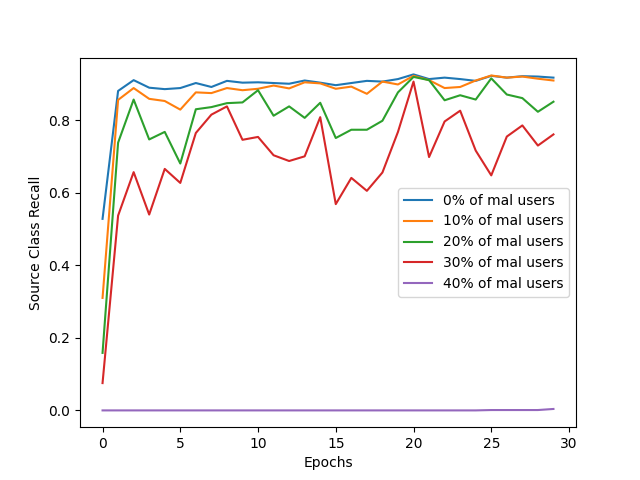
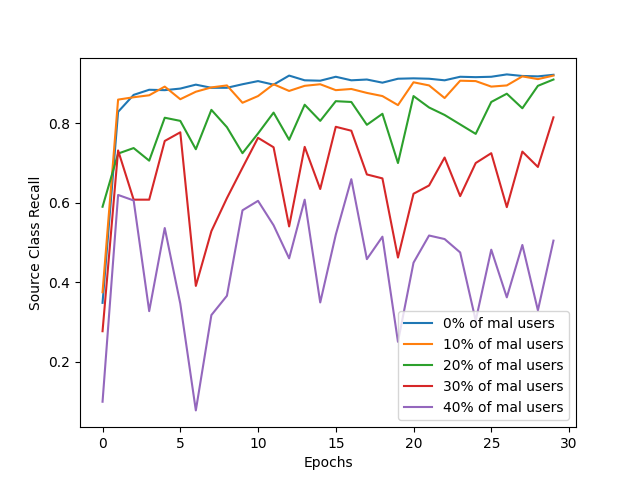
largest diff plots

diff --git a/pytorch_fed/src/federated_main.py b/pytorch_fed/src/federated_main.py
@@ -73,10 +73,10 @@ if __name__ == '__main__':
     # torch.save({
     #     'model': global_model,
     # }, 'mnist.pth')
-    attack = [1]
+    attack = [0, 1]
     recalls = []
     recalls_fake = [0.8306922468393596, 0.8207912665433005, 0.7306923458491625, 0.6376231310662068]
-
+    recalls_true = [0.88, 0.87, 0.85, 0.78, 0.64]
 
     mal = [0, 10, 20, 30, 40]
     
@@ -130,7 +130,7 @@ if __name__ == '__main__':
                     
                     info = (local_losses_fake, local_weights_fake, selected_users)
                     
-                    selected_users, attackers_found = eliminate_fixed_percentage(info, n_train_clients, 0.7)
+                    selected_users, attackers_found = eliminate_largest_diff(info, n_train_clients)
                                 
                     count = sum(1 for item in attackers_found if item in attackers and item in selected_users)
                     if mal_usr_percentage > 0:
@@ -214,16 +214,16 @@ if __name__ == '__main__':
     matplotlib.use('Agg')
 
 
-    # epochs = [x for x in range(0, n_train_epochs)]
-    # for cnt, model_rec in enumerate(test_recall_total):
+    epochs = [x for x in range(0, n_train_epochs)]
+    for cnt, model_rec in enumerate(test_recall_total):
 
-    #     plt.plot(epochs, model_rec, label = str(mal[cnt]) + "% of mal users")
+        plt.plot(epochs, model_rec, label = str(mal[cnt]) + "% of mal users")
 
 
-    # plt.xlabel("Epochs")
-    # plt.ylabel("Source Class Recall")
-    # plt.legend()
-    # plt.savefig('save/rec_many_fix_percentage.png')
+    plt.xlabel("Epochs")
+    plt.ylabel("Source Class Recall")
+    plt.legend()
+    plt.savefig('save/rec_many_largest_diff.png')
 
 
 
@@ -237,7 +237,7 @@ if __name__ == '__main__':
     plt.xlabel("Epochs")
     plt.ylabel("CrossEntropy Loss")
     plt.legend()
-    plt.savefig('save/loss_many_fix_percentage.png')
+    plt.savefig('save/loss_many_largest_diff.png')
 
 
     plt.figure()
@@ -250,7 +250,7 @@ if __name__ == '__main__':
     plt.xlabel("Epochs")
     plt.ylabel("Sparse Categorical Accuracy")
     plt.legend()
-    plt.savefig('save/accs_many_fix_percentage.png')
+    plt.savefig('save/accs_many_largest_diff.png')
 
     
     
@@ -260,34 +260,34 @@ if __name__ == '__main__':
     plt.xlabel("Malicious users %")
     plt.ylabel("Percentage of attackers detected")
     plt.legend()
-    plt.savefig('save/attackers_fix_percentage.png')
+    plt.savefig('save/attackers_largest_diff.png')
 
 
 
-    print(recalls[0][1:])
+    # print(recalls[0][1:])
 
-    # plt.figure()
-    # # Bar width
-    # bar_width = 0.35
+    plt.figure()
+    # Bar width
+    bar_width = 0.35
 
-    # # Positions of bars
-    # r1 = np.arange(len(mal[1:]))
-    # r2 = [x + bar_width for x in r1]
+    # Positions of bars
+    r1 = np.arange(len(mal[1:]))
+    r2 = [x + bar_width for x in r1]
 
-    # plt.bar(r1, recalls[1][1:], width=bar_width, edgecolor='grey', label='With Defense')
-    # plt.bar(r2, recalls[0][1:], width=bar_width, edgecolor='grey', label='Without Defense')
+    plt.bar(r1, recalls[0][1:], width=bar_width, edgecolor='grey', label='With Defense')
+    plt.bar(r2, recalls_fake, width=bar_width, edgecolor='grey', label='Without Defense')
 
-    # # Title & Subtitle
-    # plt.title('Effect of Defense Mechanism on Source Class Recall in Poisoning Attacks in FL')
-    # plt.xlabel('Malicious Users Percentage', fontweight='bold')
-    # plt.ylabel('Source Class Recall', fontweight='bold')
+    # Title & Subtitle
+    plt.title('Effect of Defense Mechanism on Source Class Recall in Poisoning Attacks in FL')
+    plt.xlabel('Malicious Users Percentage', fontweight='bold')
+    plt.ylabel('Source Class Recall', fontweight='bold')
 
-    # # x axis
-    # plt.xticks([r + bar_width for r in range(len(recalls[0][1:]))], mal[1:])
+    # x axis
+    plt.xticks([r + bar_width for r in range(len(recalls[0][1:]))], mal[1:])
 
-    # # Create legend & Show graphic
-    # plt.legend()
-    # plt.savefig('save/comparison_fix_percentage.png')
+    # Create legend & Show graphic
+    plt.legend()
+    plt.savefig('save/comparison_largest_diff.png')
     
     # # # Plot Average Accuracy vs Communication rounds
     # plt.figure()

diff --git a/pytorch_fed/src/utils.py b/pytorch_fed/src/utils.py
@@ -124,8 +124,8 @@ def eliminate_largest_diff(info, n_train_clients):
     local_weights = [local_weights[i] for i in sorted_indices]
     selected_users = [selected_users[i] for i in sorted_indices]
 
-    idx = find_largest_diff_index(local_losses[int(n_train_clients / 3):])
-    idx += int((n_train_clients / 3) - 1)
+    idx = find_largest_diff_index(local_losses[int(n_train_clients / 2):])
+    idx += int((n_train_clients / 2) - 1)
 
     attackers = selected_users[idx:]
     
